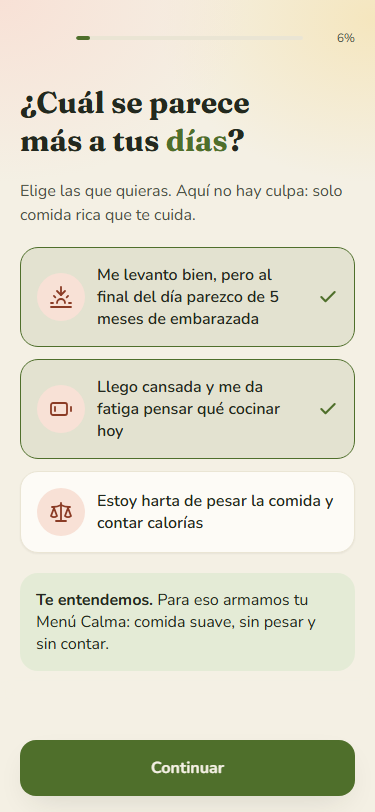
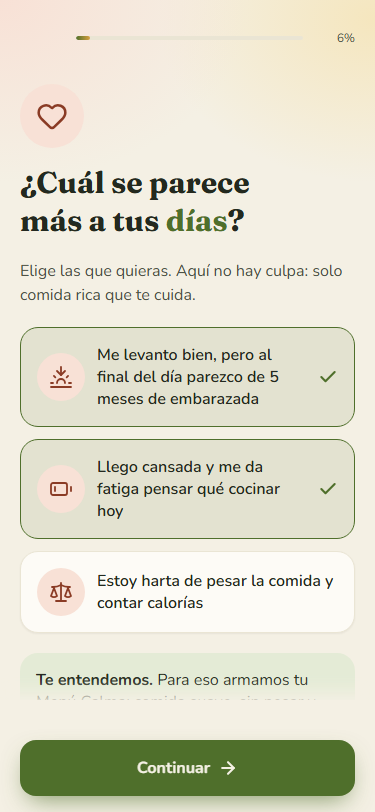
style: onboarding más vistoso (íconos de color, botones con flecha, avance con degradé)

diff --git a/components/onboarding/Flow.tsx b/components/onboarding/Flow.tsx
@@ -8,7 +8,11 @@
 import { useCallback, useEffect, useMemo, useRef, useState, type ReactNode } from 'react';
 import { AnimatePresence, animate, motion, useReducedMotion } from 'motion/react';
 import Link from 'next/link';
-import { ArrowLeft, BatteryLow, Check, Leaf, Scale, Sunset, type LucideIcon } from 'lucide-react';
+import {
+  Activity, ArrowLeft, ArrowRight, BatteryLow, Bike, CalendarDays, Check, CircleAlert, CircleCheck, CircleDot,
+  Clock, Dumbbell, Footprints, Gauge, Heart, HeartPulse, Hourglass, Leaf, Mars, Scale, ShieldCheck, ShoppingBasket, Smile,
+  Sofa, Sunset, Target, Timer, TrendingDown, TrendingUp, User, Venus, Weight, Wind, Zap, type LucideIcon,
+} from 'lucide-react';
 import {
   calcularRequerimientos,
   etiquetaPerfil,
@@ -58,6 +62,27 @@ const PASOS: Paso[] = [
 /** Pasos de elección única (sin botón, avanzan solos al elegir) y el de carga animada (avanza solo). */
 const AUTO: Paso[] = ['tiempo', 'filtro', 'actividad', 'objetivo', 'armando'];
 
+const TONOS = {
+  peach: { fondo: 'var(--peach)', tinta: 'var(--peach-ink)' },
+  mustard: { fondo: 'var(--mustard-soft)', tinta: 'var(--mustard-ink)' },
+  sky: { fondo: 'var(--sky)', tinta: 'var(--sky-ink)' },
+  olive: { fondo: 'var(--olive-wash)', tinta: 'var(--accent)' },
+} as const;
+type Tono = keyof typeof TONOS;
+const ORDEN: Tono[] = ['peach', 'mustard', 'sky', 'olive'];
+
+function ChipIcono({ icono: Icono, tono, tam = 40 }: { icono: LucideIcon; tono: Tono; tam?: 40 | 64 }) {
+  return (
+    <span
+      aria-hidden="true"
+      className={`flex shrink-0 items-center justify-center rounded-full ${tam === 64 ? 'size-16' : 'size-10'}`}
+      style={{ background: TONOS[tono].fondo }}
+    >
+      <Icono size={tam === 64 ? 32 : 20} strokeWidth={1.9} color={TONOS[tono].tinta} />
+    </span>
+  );
+}
+
 export type Dolor = 'panza' | 'cansancio' | 'bascula';
 /** Las situaciones salen literales de la FICHA-AVATAR (dolores #1, #4 y "harta de pesar y contar"). */
 const DOLORES: { v: Dolor; t: string; icono: LucideIcon }[] = [
@@ -65,6 +90,22 @@ const DOLORES: { v: Dolor; t: string; icono: LucideIcon }[] = [
   { v: 'cansancio', t: 'Llego cansada y me da fatiga pensar qué cocinar hoy', icono: BatteryLow },
   { v: 'bascula', t: 'Estoy harta de pesar la comida y contar calorías', icono: Scale },
 ];
+/** Ícono grande de cada paso: da vida y orienta de un vistazo (solo decoración, no cambia el contenido). */
+const ICONO_PASO: Partial<Record<Paso, [LucideIcon, Tono]>> = {
+  gancho: [Heart, 'peach'],
+  sintomas: [Activity, 'mustard'],
+  tiempo: [Clock, 'sky'],
+  consent: [ShieldCheck, 'olive'],
+  filtro: [HeartPulse, 'peach'],
+  datos: [User, 'sky'],
+  actividad: [Footprints, 'mustard'],
+  objetivo: [Target, 'peach'],
+  cuerpo: [Gauge, 'olive'],
+  nombre: [Smile, 'mustard'],
+  ingredientes: [ShoppingBasket, 'olive'],
+};
+const ICONO_RITMO: Record<Ritmo, LucideIcon> = { prep: CalendarDays, diaria: Timer, express: Zap };
+const ICONO_SINTOMA: Record<Sintoma, LucideIcon> = { Hinchazón: CircleDot, Gases: Wind, Pesadez: Weight, 'Digestión lenta': Hourglass };
 const RITMOS: { v: Ritmo; t: string; nota: string }[] = [
   { v: 'prep', t: 'Cocino todo en una tarde a la semana', nota: 'Preparación de una tarde: recetas que se guardan bien' },
   { v: 'diaria', t: 'Tengo 20 a 30 minutos al día', nota: 'Recetas de cocina corta y diaria' },
@@ -72,16 +113,16 @@ const RITMOS: { v: Ritmo; t: string; nota: string }[] = [
 ];
 
 const SINTOMAS: Sintoma[] = ['Hinchazón', 'Gases', 'Pesadez', 'Digestión lenta'];
-const ACTIVIDADES: { v: Actividad; t: string }[] = [
-  { v: 'sedentaria', t: 'Casi nada: mi día es sedentario' },
-  { v: 'ligera', t: 'Ligera: 1 a 3 días por semana' },
-  { v: 'moderada', t: 'Moderada: 3 a 5 días por semana' },
-  { v: 'alta', t: 'Alta: 6 a 7 días por semana' },
+const ACTIVIDADES: { v: Actividad; t: string; icono: LucideIcon }[] = [
+  { v: 'sedentaria', t: 'Casi nada: mi día es sedentario', icono: Sofa },
+  { v: 'ligera', t: 'Ligera: 1 a 3 días por semana', icono: Footprints },
+  { v: 'moderada', t: 'Moderada: 3 a 5 días por semana', icono: Bike },
+  { v: 'alta', t: 'Alta: 6 a 7 días por semana', icono: Dumbbell },
 ];
-const OBJETIVOS: { v: Objetivo; t: string }[] = [
-  { v: 'mantener', t: 'Mantener mi peso' },
-  { v: 'bajar', t: 'Bajar de peso con calma' },
-  { v: 'subir', t: 'Subir de peso con calma' },
+const OBJETIVOS: { v: Objetivo; t: string; icono: LucideIcon }[] = [
+  { v: 'mantener', t: 'Mantener mi peso', icono: Scale },
+  { v: 'bajar', t: 'Bajar de peso con calma', icono: TrendingDown },
+  { v: 'subir', t: 'Subir de peso con calma', icono: TrendingUp },
 ];
 const CONDICIONES = [
   'Estoy embarazada o en lactancia',
@@ -156,20 +197,33 @@ function Casilla({
   );
 }
 
-function Opcion({ activa, onClick, children }: { activa: boolean; onClick: () => void; children: ReactNode }) {
+function Opcion({
+  activa,
+  onClick,
+  children,
+  icono,
+  tono = 'peach',
+}: {
+  activa: boolean;
+  onClick: () => void;
+  children: ReactNode;
+  icono?: LucideIcon;
+  tono?: Tono;
+}) {
   return (
     <motion.button
       type="button"
       whileTap={{ scale: 0.97 }}
       onClick={onClick}
       aria-pressed={activa}
-      className={`flex min-h-14 w-full items-center justify-between gap-3 rounded-[var(--radius-button)] border px-4 py-3 text-left text-base font-semibold transition-colors duration-200 ${
+      className={`flex min-h-14 w-full items-center gap-3 rounded-[var(--radius-button)] border px-4 py-3 text-left text-base font-semibold transition-colors duration-200 ${
         activa
           ? 'border-[var(--accent)] bg-[var(--chip-bg)] text-[var(--text-primary)]'
           : 'border-[var(--surface-2)] bg-[var(--surface)] text-[var(--text-primary)] shadow-[var(--shadow-1)]'
       }`}
     >
-      <span>{children}</span>
+      {icono && <ChipIcono icono={icono} tono={activa ? 'olive' : tono} />}
+      <span className="flex-1">{children}</span>
       {activa && <Check size={20} strokeWidth={2.5} color="var(--accent)" aria-hidden="true" />}
     </motion.button>
   );
@@ -464,7 +518,7 @@ export function Flow({ fotos = [] }: { fotos?: string[] }) {
           className="h-1 flex-1 overflow-hidden rounded-full bg-[var(--surface-2)]"
         >
           <motion.div
-            className="h-full rounded-full bg-[var(--accent)]"
+            className="h-full rounded-full bg-[linear-gradient(90deg,var(--accent),var(--mustard))]"
             initial={false}
             animate={{ width: `${progreso}%` }}
             transition={{ duration: reducir ? 0 : 0.3, ease: EASE }}
@@ -484,6 +538,17 @@ export function Flow({ fotos = [] }: { fotos?: string[] }) {
             exit="sale"
             transition={{ duration: reducir ? 0.2 : 0.3, ease: EASE }}
           >
+            {ICONO_PASO[paso] && (
+              <motion.div
+                initial={{ scale: reducir ? 1 : 0.5, opacity: 0 }}
+                animate={{ scale: 1, opacity: 1 }}
+                transition={{ type: 'spring', stiffness: 280, damping: 16, delay: 0.05 }}
+                className="mb-4 w-fit"
+              >
+                <ChipIcono icono={ICONO_PASO[paso]![0]} tono={ICONO_PASO[paso]![1]} tam={64} />
+              </motion.div>
+            )}
+
             {paso === 'gancho' && (
               <div className="flex flex-col gap-5">
                 <Titulo>
@@ -543,8 +608,8 @@ export function Flow({ fotos = [] }: { fotos?: string[] }) {
                   Tu menú se arma a tu ritmo. Cero culpa: elige lo que de verdad puedes.
                 </p>
                 <div className="flex flex-col gap-3">
-                  {RITMOS.map((r) => (
-                    <Opcion key={r.v} activa={ritmo === r.v} onClick={() => elegirYAvanzar(() => setRitmo(r.v))}>
+                  {RITMOS.map((r, n) => (
+                    <Opcion key={r.v} icono={ICONO_RITMO[r.v]} tono={ORDEN[n % 4]} activa={ritmo === r.v} onClick={() => elegirYAvanzar(() => setRitmo(r.v))}>
                       <span className="block">{r.t}</span>
                       <span className="mt-1 block text-sm font-normal text-[var(--text-secondary)]">{r.nota}</span>
                     </Opcion>
@@ -630,10 +695,10 @@ export function Flow({ fotos = [] }: { fotos?: string[] }) {
                   ))}
                 </ul>
                 <div className="flex flex-col gap-3">
-                  <Opcion activa={filtro === 'ok'} onClick={() => elegirYAvanzar(() => setFiltro('ok'))}>
+                  <Opcion icono={CircleCheck} tono="olive" activa={filtro === 'ok'} onClick={() => elegirYAvanzar(() => setFiltro('ok'))}>
                     Ninguna me aplica
                   </Opcion>
-                  <Opcion activa={filtro === 'aplica'} onClick={() => setFiltro('aplica')}>
+                  <Opcion icono={CircleAlert} tono="mustard" activa={filtro === 'aplica'} onClick={() => setFiltro('aplica')}>
                     Alguna me aplica
                   </Opcion>
                 </div>
@@ -663,10 +728,10 @@ export function Flow({ fotos = [] }: { fotos?: string[] }) {
                 <fieldset>
                   <legend className="mb-2 text-sm text-[var(--text-secondary)]">Sexo (lo pide la fórmula)</legend>
                   <div className="grid grid-cols-2 gap-3">
-                    <Opcion activa={sexo === 'mujer'} onClick={() => setSexo('mujer')}>
+                    <Opcion icono={Venus} tono="peach" activa={sexo === 'mujer'} onClick={() => setSexo('mujer')}>
                       Mujer
                     </Opcion>
-                    <Opcion activa={sexo === 'hombre'} onClick={() => setSexo('hombre')}>
+                    <Opcion icono={Mars} tono="sky" activa={sexo === 'hombre'} onClick={() => setSexo('hombre')}>
                       Hombre
                     </Opcion>
                   </div>
@@ -684,8 +749,8 @@ export function Flow({ fotos = [] }: { fotos?: string[] }) {
                 </Titulo>
                 <p className="text-base text-[var(--text-secondary)]">Ejercicio o caminatas, en una semana normal.</p>
                 <div className="flex flex-col gap-3">
-                  {ACTIVIDADES.map((a) => (
-                    <Opcion key={a.v} activa={actividad === a.v} onClick={() => elegirYAvanzar(() => setActividad(a.v))}>
+                  {ACTIVIDADES.map((a, n) => (
+                    <Opcion key={a.v} icono={a.icono} tono={ORDEN[n % 4]} activa={actividad === a.v} onClick={() => elegirYAvanzar(() => setActividad(a.v))}>
                       {a.t}
                     </Opcion>
                   ))}
@@ -703,8 +768,8 @@ export function Flow({ fotos = [] }: { fotos?: string[] }) {
                   Cualquier cambio es gradual y suave: nada de dietas extremas.
                 </p>
                 <div className="flex flex-col gap-3">
-                  {OBJETIVOS.map((o) => (
-                    <Opcion key={o.v} activa={objetivo === o.v} onClick={() => elegirYAvanzar(() => setObjetivo(o.v))}>
+                  {OBJETIVOS.map((o, n) => (
+                    <Opcion key={o.v} icono={o.icono} tono={ORDEN[(n + 1) % 4]} activa={objetivo === o.v} onClick={() => elegirYAvanzar(() => setObjetivo(o.v))}>
                       {o.t}
                     </Opcion>
                   ))}
@@ -778,9 +843,11 @@ export function Flow({ fotos = [] }: { fotos?: string[] }) {
                   Cuéntanos sin pena. Elige todo lo que aplique: aquí no hay juicios, solo comida rica que te cuida.
                 </p>
                 <div className="flex flex-col gap-3">
-                  {SINTOMAS.map((s) => (
+                  {SINTOMAS.map((s, n) => (
                     <Opcion
                       key={s}
+                      icono={ICONO_SINTOMA[s]}
+                      tono={ORDEN[n % 4]}
                       activa={sintomas.includes(s)}
                       onClick={() => {
                         setAviso('');
@@ -849,7 +916,7 @@ export function Flow({ fotos = [] }: { fotos?: string[] }) {
                   Elige por mí
                 </button>
                 <div className="flex flex-col gap-5">
-                  {GRUPOS_INGREDIENTES.map((g) => (
+                  {GRUPOS_INGREDIENTES.map((g, gi) => (
                     <div key={g.titulo}>
                       <p className="mb-2 text-xs font-semibold uppercase tracking-wide text-[var(--text-secondary)]">{g.titulo}</p>
                       <div className="flex flex-wrap gap-3">
@@ -870,8 +937,9 @@ export function Flow({ fotos = [] }: { fotos?: string[] }) {
                         className={`min-h-11 rounded-full border px-4 text-base transition-colors duration-200 ${
                           activo
                             ? 'border-[var(--accent)] bg-[var(--accent)] font-semibold text-[var(--bg)]'
-                            : 'border-[var(--surface-2)] bg-[var(--surface)] shadow-[var(--shadow-1)]'
+                            : 'border-transparent shadow-[var(--shadow-1)]'
                         }`}
+                        style={activo ? undefined : { background: TONOS[(['peach', 'mustard', 'olive'] as const)[gi % 3]].fondo }}
                       >
                         {i.etiqueta}
                       </motion.button>
@@ -996,16 +1064,17 @@ export function Flow({ fotos = [] }: { fotos?: string[] }) {
             <motion.a
               whileTap={{ scale: 0.97 }}
               href="/paywall"
-              className="flex h-14 w-full items-center justify-center rounded-[var(--radius-button)] bg-[var(--accent)] text-base font-bold text-[var(--bg)] shadow-[var(--shadow-2)]"
+              className="flex h-14 w-full items-center justify-center gap-2 rounded-[var(--radius-button)] bg-[var(--accent)] text-base font-bold text-[var(--bg)] shadow-[0_10px_24px_-8px_color-mix(in_oklab,var(--accent)_70%,transparent)]"
             >
               Ver mi semana completa
+              <ArrowRight size={20} strokeWidth={2.5} aria-hidden="true" />
             </motion.a>
           ) : (
             <motion.button
               type="button"
               whileTap={{ scale: 0.97 }}
               onClick={siguiente}
-              className="h-14 w-full rounded-[var(--radius-button)] bg-[var(--accent)] text-base font-bold text-[var(--bg)] shadow-[var(--shadow-2)]"
+              className="flex h-14 w-full items-center justify-center gap-2 rounded-[var(--radius-button)] bg-[var(--accent)] text-base font-bold text-[var(--bg)] shadow-[0_10px_24px_-8px_color-mix(in_oklab,var(--accent)_70%,transparent)]"
             >
               {(paso === 'consent' || paso === 'gancho') && 'Continuar'}
               {paso === 'nombre' && (nombre.trim() ? 'Continuar' : 'Seguir sin nombre')}
@@ -1013,6 +1082,7 @@ export function Flow({ fotos = [] }: { fotos?: string[] }) {
               {paso === 'cuerpo' && 'Siguiente'}
               {paso === 'sintomas' && 'Siguiente'}
               {paso === 'ingredientes' && 'Ver mi primer menú'}
+              <ArrowRight size={20} strokeWidth={2.5} aria-hidden="true" />
             </motion.button>
           )}
         </footer>

diff --git a/ESTADO.md b/ESTADO.md
@@ -97,6 +97,9 @@ Big Idea: "Desinflama tu abdomen y recupera tu ropa favorita sin volver a pesar 
 - Cambios hechos: paso opcional de nombre, etiqueta de identidad ("Cocinera de 20 minutos"), "Hecho con tus N respuestas" restaurado en la pantalla de planes, titular con nombre, chip de celebración, "Elige por mí", oferta clara al final del menú (60 recetas, $14.99, 7 días), barras proporcionales, "meal prep" traducido.
 - Veredictos del revisor tras el rescate: planes NO LISTA 30/40 · 16/20 · 15/20 (frena la falta de prueba real: cifra de consulta/testimonios, pendientes de la dueña); onboarding NO LISTA 32/40 · 15/20 · 15/20 (la versión v3 previa, commit d1c5489, había salido LISTA 36/16/16: el revisor puntúa distinto en cada pasada, sin cambios de diseño que lo expliquen). DECISIÓN DE LA USUARIA (2026-10-31): conservar los cambios del rescate. Veredicto onboarding y planes: pospuestos como NO LISTA hasta contar con contenido real (cifra de consulta, testimonios) y poder medir conversión con tráfico real; se re-lanza el revisor entonces.
 
+## Diseño vistoso del onboarding (2026-10-31, pedido de la usuaria)
+- Contenido intacto. Añadidos: ícono grande de color en cada paso, íconos de color en cada opción (actividad, objetivo, ritmo, síntomas, sexo, filtro), flecha en los botones con sombra de color, barra de avance con degradé oliva→mostaza y chips de ingredientes con color por grupo. Sin revisión formal del revisor tras este cambio (solo estético).
+
 ## Problemas conocidos ⚠
 - onboarding v3 (12 pasos, 2026-10-31): rehecho tras comparar con una guía externa (empatía primero, ritmo de cocina que cambia el menú, pantalla de carga "Armando tu Menú Calma", etiquetas Express/Congelable, línea de dolor del paywall según la situación elegida). Veredicto LISTA en la 4ª pasada (36/40 · 16/20 · 16/20), justo en umbral. Pendientes: (1) las 2 primeras pantallas (situación y síntomas) van ANTES del permiso de datos de salud, todo queda en el navegador del celular y la pantalla lo dice: confirmar con la abogada; (2) el primer menú usa solo recetas con foto (BONO_FOTO en lib/calculos.ts) hasta que haya fotos de las 52 restantes: bajarlo a 1 entonces; (3) opcional: dispositivo firma propio en los pasos, atajos de teclado, aviso de scroll en el paso 12.
 - paywall (pantalla de planes) construida en app/paywall + components/paywall/Paywall.tsx; veredicto del revisor tras 6 pasadas: NO LISTA (33/40 · 15/20 · 16/20; el texto ya pasa, faltan usabilidad y diseño). Lo que lo frena es de CONTENIDO de la usuaria, no de diseño: (1) precio real de una consulta (opcional, para el ancla), (2) testimonios reales si existen (no se inventan). DECISIÓN DE LA USUARIA: no mostrar nombre ni rostro de la nutricionista; solo "avalada por una nutricionista" (ya en landing y paywall). Estado: no se declara lista hasta aportarlos y re-lanzar el revisor. El botón NO cobra: sin NEXT_PUBLIC_HOTMART_CHECKOUT_URL muestra un aviso honesto; el enlace real va en servicios externos. Pendiente menor: isotipo real de marca en la cabecera (hoy un cuadrado oliva).
